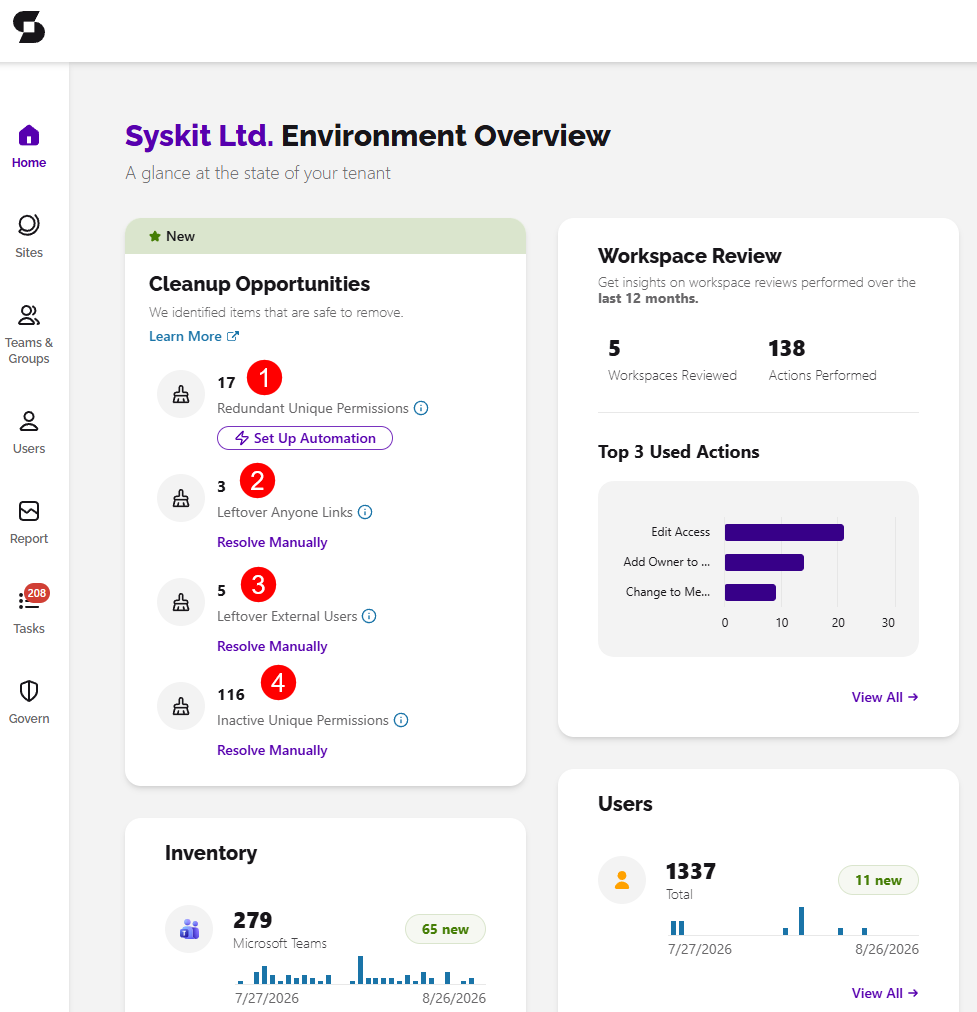
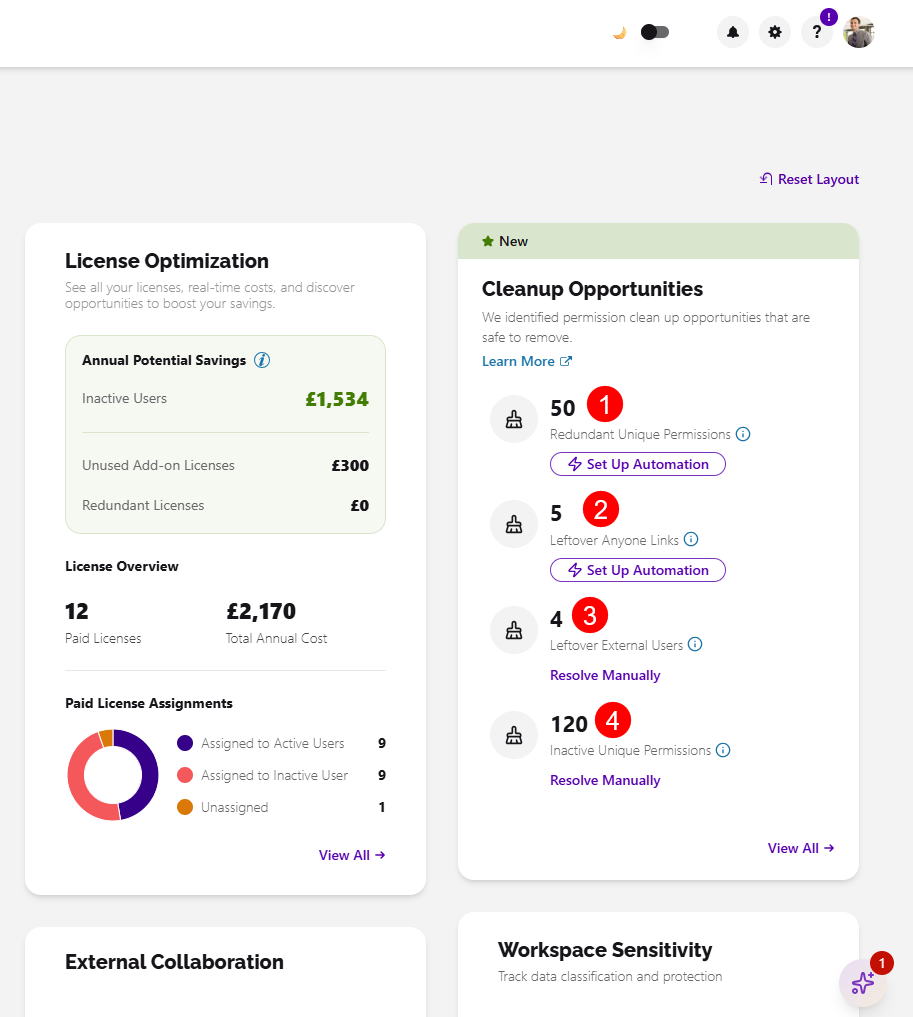
cleanup opportunities

diff --git a/docs/microsoft365-inventory/cleanup-opportunities.md b/docs/microsoft365-inventory/cleanup-opportunities.md
@@ -21,7 +21,7 @@ Clicking any of the counts in the tile opens the relevant report, where you can 
 
 ## Redundant Unique Permissions
 
-**After sharing links expire, get deleted, or access is granted ad hoc, unique permissions are often left behind even when they're no longer needed, making them redundant. Redundant unique permissions also happen with items where unique permissions match the parent.** Over time, they accumulate silently: permission reviews become harder to complete, SharePoint performance degrades on heavily affected sites, and admins lose a clear picture of who actually has access. These redundant unique permissions can be safely removed to simplify your structure without changing anyone's access.
+**After sharing links expire, get deleted, or after ad-hoc access is removed, unique permissions are often left behind even when they're no longer needed, making them redundant. This means that redundant unique permissions happen with items where unique permissions match that of its parent.** Over time, they accumulate silently: permission reviews become harder to complete, SharePoint performance degrades on heavily affected sites, and admins lose a clear picture of who actually has access. These redundant unique permissions can be safely removed to simplify your structure without changing anyone's access.
 
 On the dashboard tile, you'll see the number of redundant unique permissions ready to be cleaned up, **click Set up Automation** to start.
 
@@ -35,6 +35,9 @@ After selecting Set Up Automation, the **information dialog** opens, providing m
 * **Clicking Resolve Manually (2)** opens the [**Unique Permissions** report](../reporting/access-reports.md#unique-permissions-report)
   * After generating the report, you'll see the **recommendation to Remove Redundant Unique Permissions (3)**, where applicable
   * Selecting that object lets you complete the **Delete Unique Permissions action (4)**
+
+* **Clicking View Cleanup Insights (3)** opens the [**Cleanup Opportunities Insights** report](#cleanup-opportunities-insights) on the Security & Compliance section of the Govern screen
+
 
 :::info
 
@@ -81,6 +84,11 @@ After selecting Set Up Automation, the **information dialog** opens, providing m
   * Once the report is generated, you'll see the **recommendation to Remove Leftover Anyone Link (3)**, where applicable
   * Selecting the object lets you **complete the Remove Sharing Link (4)** action
 
+* **Clicking View Cleanup Insights (3)** opens the [**Cleanup Opportunities Insights** report](#cleanup-opportunities-insights) on the Security & Compliance section of the Govern screen
+
+
+![Cleanup Opportunities tile - Leftover Anyone Links](../../static/img/cleanup-opportunities-tile-leftover-automation.png)
+
 ![Cleanup Opportunities tile - Leftover Anyone Links](../../static/img/cleanup-opportunities-tile-leftover.png)
 
 ## Leftover External Users
@@ -104,15 +112,32 @@ After selecting Resolve Manually, the **information dialog** opens, providing mo
 
 **The Cleanup Opportunities Insights report gives you an overview of the cleanup work done across your environment**. With it, you can see how much has been resolved automatically and how much still needs your attention.
 
-You can find the Cleanup Opportunities Insights report in the **Governance** area, under the **Security & Compliance** section.
+You can find the Cleanup Opportunities Insights report by:
+* Clicking **Govern** on the left side of the screen, going to the **Security & Compliance** section and clicking Cleanup Opportunities Insights
+* Clicking **View All** on the Cleanup Opportunities dashboard tile opens the Cleanup Opportunities Insights report
 
 The report provides an overview of all completed and pending cleanup actions taken from the Cleanup Opportunities tile. 
 
-The following information is available on the report: 
+The following information is available: 
 
-* **Resolved and pending cleanup opportunities** are tracked across all four categories, split into **Automated** and **Manual** cleanup
+* The **Overview section (1)**, which provides the number of:
+  * **Total Items Cleaned**
+  * **Number of items cleaned through automation**, as well as the percentage
+  * **Number of items cleaned manually**, as well as the percentage
 
-* **The Cleanup Trend graph** is cumulative, so it shows the total number of resolved items grow over time
+* The **Cleanup Trend section (2)**, which shows the amount of all-time cumulative cleaned items shown through a graph for automated items and manual items
 
+* The report for the current state of your Cleanup Opportiunities with the following columns included: 
 
-![Cleanup Opportunities Insights](../../static/img/cleanup-opportunities-tile-leftover-users.png)
+  * **Cleanup Opportunity (3)** - shows the name of the cleanup category
+  * **Cleaned Items (4)** - shows the number of cleaned items so far
+  * **Pending (5)** - shows the number of items still pending
+  * **Resolution Method (6)** - shows the resolution method, whether it is automated or manual
+  * **Last Automated Run (7)** - if automated, shows when the last automated cleanup happened
+
+* Depending on whether automation is available for the category or not, you can also see the following buttons:
+  * **Request Automation (8)** - available for cleanup opportunities that are currently without automation
+  * **Set Up Automation (9)** - available for cleanup opportunities that can already be automated
+  * **Turn Off Automation (10)** - available for cleanup opportunities that already have automation enabled
+
+![Cleanup Opportunities Insights](../../static/img/cleanup-opportunities-insights.png)

diff --git a/docs/microsoft365-inventory/explore-your-microsoft-365-dashboard.md b/docs/microsoft365-inventory/explore-your-microsoft-365-dashboard.md
@@ -40,8 +40,6 @@ The **Syskit Point** Dashboard shows Syskit Point collaborators the following in
 
 ![Dashboard tile on the Welcome Home screen](../../static/img/explore-dashboard-dashboard-tiles-on-welcome-home-screen.png)
 
-![Dashboard tile on the Welcome Home screen](../../static/img/explore-dashboard-dashboard-tiles-on-welcome-home-screen-2.png)
-
 Below, each tile is described in more detail.
 
 
@@ -94,37 +92,31 @@ Each of the numbers drills to the appropriate view in the **Users Overview** scr
 This tile provides the following storage metrics:
 
 * **Total storage**
-* **Active storage**
+* **Used storage**
 * **Free storage**
 
 The **View All** link opens the **Storage Metrics report** showing tenant-wide storage usage, usage trend through time, and the largest sites in your tenant.
 
 You can also find information on:
-* Amount of current active storage and the total storage available
 * Storage Saved - how much **storage you saved**
 * Cleanup Opportunities - how much **storage you could save** 
 * Archive Opportunities - how much **storage you could reclaim by archiving stale files** across your tenant, based on your [Stale Files policies](../governance-and-automation/stale-files/stale-files-admin.md)
 
-The **View All** link opens the [**Storage Metrics report**](../storage-management/storage-reports.md#storage-metrics), where you can select the workspaces on which you want to perform a storage clean-up or archive stale files.
+The **Optimize Storage** link opens the [**Storage Metrics report**](../storage-management/storage-reports.md#storage-metrics), where you can select the workspaces on which you want to perform a storage clean-up or archive stale files.
 
 ![Storage tile ](../../static/img/dashboard-storage-tile.png)
 
 :::info
-
 **Hint!**  
-The active storage number is calculated for all non-archived files, including those in the recycle bin. OneDrive storage is not included in the metrics. Files and sites archived via M365 Archive are shown as a separate figure and do not count toward this number.
-
+The used storage number is calculated for all files, including those in the recycle bin and archived files. OneDrive storage is not included in the metrics.
 :::
-
 
 :::warning
-
 **Please note!**  
-Storage data on the Dashboard reflects Microsoft's storage numbers, which update on a delay, so it can differ from the **SharePoint admin center**. Microsoft's capacity meter does not include changes made within the last 24-48 hours, it can take around 48 hours after a site is deleted for its storage to stop counting, and the SharePoint Storage report can lag by 48-72 hours, [as described here](https://docs.microsoft.com/en-us/sharepoint/manage-site-collection-storage-limits).
-
-* [For more details on Storage Management for SharePoint Online, take a look at the Storage Management Overview article.](../storage-management/storage-management-overview.md)
-
+Storage data displayed on the Dashboard can differ from the data provided by the **SharePoint admin center** since it doesn't include changes made within the last 24-48 hours, as described [here](https://docs.microsoft.com/en-us/sharepoint/manage-site-collection-storage-limits).
 :::
+
+[For more details on Storage Management for SharePoint Online, take a look at the Storage Management Overview article.](../storage-management/storage-management-overview.md)
 
 ## Security & Compliance
 

diff --git a/docs/set-up-point-cloud/syskit-point-subscriptions.md b/docs/set-up-point-cloud/syskit-point-subscriptions.md
@@ -13,7 +13,6 @@ The **My Subscriptions** portal provides insight into the current state of your 
 In this article, you will find information on the following:
 
 * [Purchase Your Syskit Point Cloud Subscription](syskit-point-subscriptions.md#purchase-your-syskit-point-cloud-subscription)
-* [Provide Account Contacts](syskit-point-subscriptions.md#provide-account-contacts)
 * [Purchase Additional User Licenses](syskit-point-subscriptions.md#purchase-additional-user-licenses)
 * [Upgrade Your Subscription Plan](syskit-point-subscriptions.md#upgrade-your-subscription-plan)
 * [Manage Subscription Administrators](syskit-point-subscriptions.md#manage-subscription-administrators)
@@ -98,33 +97,6 @@ The section titled **Users (2)** is where you can find a **list of users (2)** y
 ![Syskit Point Subscription - Purchased Plan & Users](../../static/img/syskit-point-subscriptions-users-purchased-plan.png)
 
 ![Syskit Point Subscription - Purchased Plan & Users](../../static/img/syskit-point-subscriptions-users-list.png)
-
-## Provide Account Contacts
-
-Once your license is activated, you are asked to provide your account contacts. Contacts are requested for four roles:
-
-* **Main Contacts (Primary)**
-  * The main person(s) working in Syskit Point on a regular basis
-  * These contacts will receive all important product and change updates
-* **Technical Contacts**
-  * The main person(s) working in charge of technical related information
-  * These contacts will receive information about product updates
-* **Billing Contacts**
-  * The main person(s) in charge of billing
-  * These contacts will receive copies of the invoices, renewal information and other billing-related updates
-* **Legal Contacts**
-  * The main person(s) in charge of legal aspects
-  * These contacts will receive all important legal changes (e.g. to our EULA or Privacy Policy)
-
-For each role, enter a valid **e-mail** address. You can add more than one e-mail address per role.
-
-The first time your license is activated, adding these contacts is a required step, and all four roles need to be filled in before you can continue. If your license is already active, a banner reminds you to add your contacts until they are submitted.
-
-To keep your contacts up to date, we ask you to confirm them once a year. When it is time to review them, a banner in Syskit Point lets you know.
-
-:::info
-**Please note!** No contacts are collected during the free trial. During the trial, we only reach out to the person who started the trial period.
-:::
 
 ## Purchase Additional User Licenses
 
